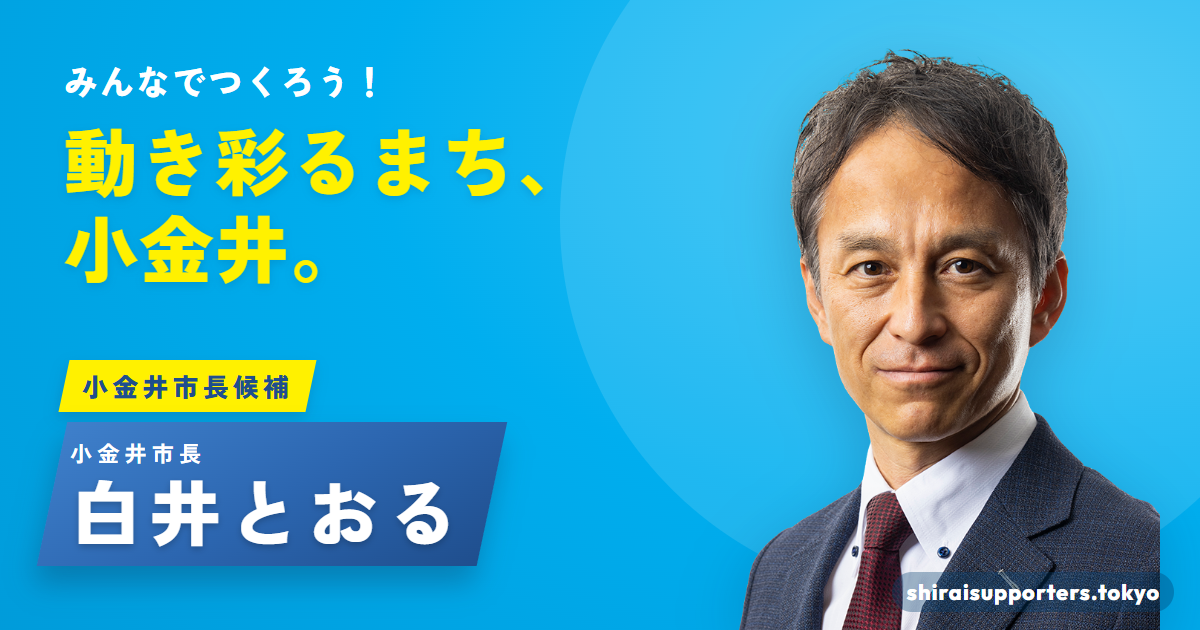
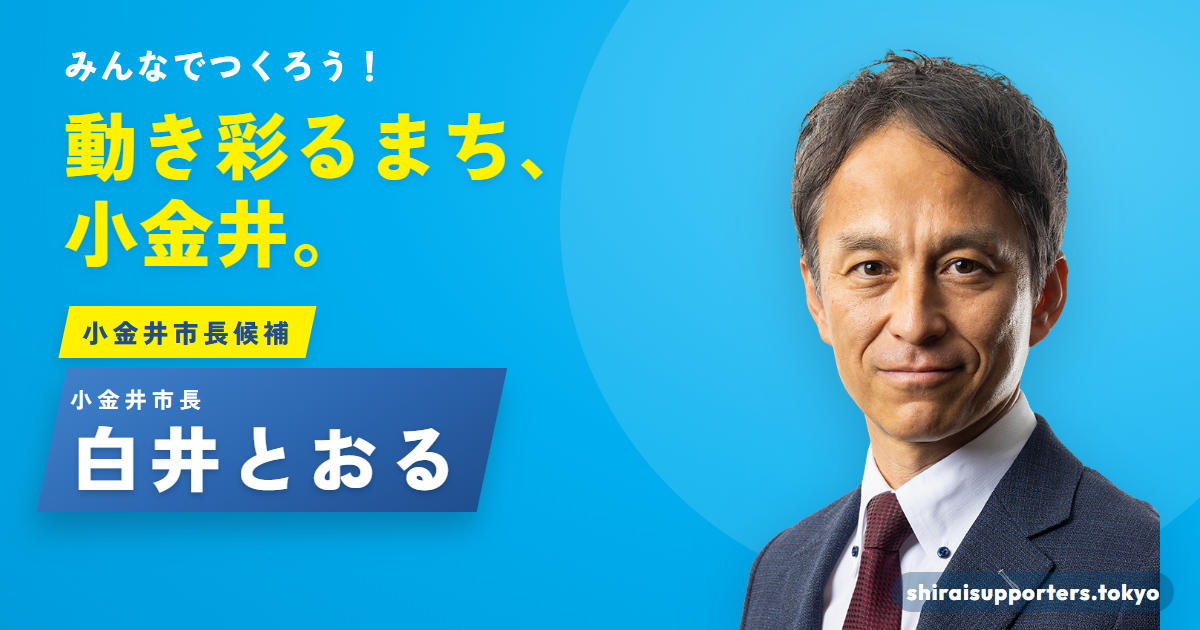
OGP画像を名札を上げた版に（Xが左下に題名を重ねるため）

Changed region(s): [[0.0308, 0.4825, 0.4317, 0.9349], [0.0308, 0.181, 0.4625, 0.4524], [0.0308, 0.0603, 0.3083, 0.1508]]

diff --git a/chosha/index.html b/chosha/index.html
@@ -55,7 +55,7 @@ details.more summary::-webkit-details-marker{display:none}details.more summary:a
 <meta property="og:title" content="決断。新庁舎等建設の見直し｜白井とおるサポーターズ">
 <meta property="og:description" content="白井とおるサポーターズマガジン Vol.3　新庁舎等建設、建設費高騰により現設計による建設、見直しへ">
 <meta property="og:url" content="https://shiraisupporters.tokyo/chosha/">
-<meta property="og:image" content="https://koganei.heteml.net/hg7emw2ud3gkvesrzndd6a2iz1kuqwwyc75mb1g8/ogp.png">
+<meta property="og:image" content="https://koganei.heteml.net/hg7emw2ud3gkvesrzndd6a2iz1kuqwwyc75mb1g8/ogp2.png">
 <meta property="og:image:width" content="1200">
 <meta property="og:image:height" content="630">
 <meta property="og:image:alt" content="小金井市長候補 白井とおる　みんなでつくろう！動き彩るまち、小金井。">
@@ -63,6 +63,6 @@ details.more summary::-webkit-details-marker{display:none}details.more summary:a
 <meta name="twitter:card" content="summary_large_image">
 <meta name="twitter:title" content="決断。新庁舎等建設の見直し｜白井とおるサポーターズ">
 <meta name="twitter:description" content="白井とおるサポーターズマガジン Vol.3　新庁舎等建設、建設費高騰により現設計による建設、見直しへ">
-<meta name="twitter:image" content="https://koganei.heteml.net/hg7emw2ud3gkvesrzndd6a2iz1kuqwwyc75mb1g8/ogp.png">
+<meta name="twitter:image" content="https://koganei.heteml.net/hg7emw2ud3gkvesrzndd6a2iz1kuqwwyc75mb1g8/ogp2.png">
 <!-- OGP-END -->
 </head><body><header class="site-head"><div class="wrap"><a class="brand" href="https://shiraisupporters.tokyo/">白井とおる <span>2026</span></a><a class="back" href="https://shiraisupporters.tokyo/">← トップへ戻る</a></div></header><div class="masthead"><div class="wrap"><b>白井とおるサポーターズマガジン</b><span class="vol">Vol.3</span><span>2026年10月12日発行　発行：白井とおるサポーターズ</span></div></div><header class="hero"><div class="wrap"><div class="hero-copy"><h1 class="head"><span>決断。新庁舎等建設、</span><br><span>建設費高騰により</span><br><span>現設計による建設、見直しへ</span><br></h1><p class="lead">中東情勢含め建設費の高騰を受け、小中学校建替え等も進めねばならず今後の財政運営が非常に厳しくなると判断、悩んだ末、見直しを決断しました</p></div></div></header><nav class="sec soft" style="padding:26px 0" aria-label="この見直しのポイント"><div class="narrow"><div class="qnav" style="margin:0"><a href="#q1"><span class="n">1</span>何が起きた？</a><a href="#q2"><span class="n">2</span>なぜ見直す？</a><a href="#q3"><span class="n">3</span>これからどうする？</a></div></div></nav><main><section class="sec alt" id="q1"><div class="narrow"><div class="q-head"><span class="n">1</span><h2>何が起きた？</h2></div><div class="block"><h3 class="sub">現設計で進めてきたこれまでの経過と見直しの判断について</h3><p>前市長時代からストップしていた事業を2023年に再開。法令に基づく設計の修正に着手</p><figure class="figure bare"><img src="assets/fig-flow.webp" width="1565" height="460" alt="2024.12 念願の工事予算を議会で可決（約130億円）→ 2025 入札かけるも応札者なく2度入札中止 → 2026 174億円と想定し2027 or 2028年度に3度目の入札に向け調整 → 事業者ヒアリングから240億円相当の想定が必要と判断" loading="lazy"><a class="zoom" href="assets/fig-flow.webp" target="_blank" rel="noopener">図を大きく見る</a></figure><p class="judge"><span class="em">建設工事費の大幅な上昇</span>により、小中学校建替え等を始めとした施設の老朽化対策と合わせて<span class="em">非常に大きな財政負担となる見通し</span>となったことから<span class="em">現設計により進めることは断念、方針を見直す</span>こととしました。</p></div><div class="block"><h3 class="sub">建設費の大幅な高騰、今後の財政運営に危機感</h3><p>長年の課題であった新庁舎建設は、本庁舎の老朽化と第二庁舎の賃借解消のため統合的な庁舎にし、防災および市民サービスの拠点と位置付けていました。また、約10年前に閉館した福祉会館機能の回復と保健センター等を合わせた福祉の総合拠点と併設する、複合施設として整備を計画。</p><p>2019年から設計に入ったものの、財政的な課題や市議会からの指摘等もあり、2022年に実施設計最終盤で立ち止まることに。白井市長就任（2022年11月下旬）後、公約「財政的課題をクリアのうえ、早期建設をめざす」の通り事業再開を決め、市議会にて工事予算を可決するなどして事業を前に進めてきました。しかし、建設物価高騰に加えて中東情勢の影響もあり、建設費がさらに高騰してきました。</p><figure class="figure"><img src="assets/fig-cost.webp" width="1195" height="850" alt="2020年度からの建設費試算の推移（単位：億円）。基本設計時84.4（2020.6）、実施設計時90.7（2021.11）、中断、事業再開方針発表時115（2023.5）、建設工事予算可決時130（2024.12）、2度の入札中止、施政方針で3回目の入札を目指して調整することを表明174（2026.2）、5-6月の施工者へのサウンディング調査を踏まえて試算240（2026.8）。2022.11.27 白井市長就任、事業再開を指示" loading="lazy"><a class="zoom" href="assets/fig-cost.webp" target="_blank" rel="noopener">図を大きく見る</a></figure></div></div></section><section class="sec " id="q2"><div class="narrow"><div class="q-head"><span class="n">2</span><h2>なぜ見直す？</h2></div><div class="block"><h3 class="sub">現状のまま進めると、将来的に財政が行き詰まる危険性</h3><figure class="figure"><img src="assets/fig-sim.webp" width="1410" height="730" alt="新庁舎等建設費240億円で進めた場合の財政シミュレーション（イメージ）。公債費（返済支出）は2028年から増え続け、現在の約2倍となる40億円程度の公債費が続く見込み。財政調整基金残高（いわゆる普通預金）は減り続け、財政規律ガイドラインの指標「財政調整基金残高」40億円ラインを下回る。上記は小中学校建替えの計画に沿った事業費も含めた財政シミュレーションです" loading="lazy"><a class="zoom" href="assets/fig-sim.webp" target="_blank" rel="noopener">図を大きく見る</a></figure></div><div class="block"><h3 class="sub">市債（借入）増+金利上昇もあり将来の負担が増大</h3><p>工事費の大部分を市債発行（借入）で調達することになり、工事費の増額に伴い借入額も増。後20年以上にわたっての返済（償還額）は、金利を含め想定以上に膨らむことになります。</p><div class="tbl-wrap"><table class="cmp"><caption>◯ 建設費ごとの借入れ額と返済額の比較</caption><thead><tr><th scope="col">建設費想定</th><th scope="col">借入額</th><th scope="col">金利</th><th scope="col">償還額合計</th></tr></thead><tbody><tr><th scope="row" style="font-weight:500">130億円の場合</th><td>約99億円</td><td>約15億円</td><td>約114億円</td></tr><tr><th scope="row" style="font-weight:500">174億円の場合</th><td>132億円</td><td>約33億円</td><td>約165億円</td></tr><tr><th scope="row" style="font-weight:500">240億円の場合</th><td>187億円</td><td>約68億円</td><td>約255億円</td></tr></tbody></table></div><p class="note">※240億円の場合は2026年8月段階での金利上昇を含めて試算</p></div><div class="block"><h3 class="sub">小中学校の建替え等も同時に進めなければなりません</h3><p>現状のままでは、着工から7−8年後から毎年の借入額の返還（公債費）が財政を圧迫し、財政調整基金で補うも基金が枯渇する危険性も想定されます。庁舎等建設や他の市民福祉の向上とともに、今後の小中学校建替え等の公共施設の更新も深刻な課題であり、両立して取り組まねばなりません。</p><figure class="figure"><img src="assets/fig-plan.webp" width="1072" height="651" alt="小中学校改築等の今後10年間の実施計画（小金井市学校施設長寿命化計画改訂版より）。2026〜2036年の小中学校14校の建替え・構想設計・先行修繕の予定表。第一小学校は2026〜2029年に建替え（一部改修）、第三小学校は2027〜2029年に構想・設計、2030〜2033年に建替え（一部改修）、第一中学校は2027〜2031年に構想・設計、2032〜2035年に建替え（一部改修）、第二小学校と第二中学校は2031〜2035年に構想・設計、2036年に建替え。建替えや改修が10年以上先になる学校は、先行して屋上や外壁等必要な修繕を行う予定" loading="lazy"><a class="zoom" href="assets/fig-plan.webp" target="_blank" rel="noopener">図を大きく見る</a></figure><p class="note">※グラフや表は市議会への提出資料や議会答弁等から白井とおるサポーターズが独自に作成、金額は概算</p></div></div></section><section class="sec soft" id="q3"><div class="narrow"><div class="q-head"><span class="n">3</span><h2>これからどうする？</h2></div><div style="margin-bottom:28px"><p class="concl">新庁舎等整備は課題解消とまちづくりの観点から重要であり、事業規模等を整理の上、再設計に向け新たな方針策定の検討を始めています。</p></div><div class="report"><div class="report-head"><span class="report-badge">市長<br>報告</span><div><p class="report-date">9月1日</p><h3 class="report-title">新庁舎・（仮称）新福祉会館の今後の対応について<small>（要約）</small></h3></div></div><div class="report-body"><div><p>従来の方針では、2028年度、可能であれば2027年度の入札（及び着工）を目指していました。しかし、2回の入札中止を受け、改めて5月から6月にかけて、施工会社を対象に事前調査を実施したところ、一定の入札参加は見込まれるものの、工事費が240億円相当まで上昇することも想定される結果になりました。新庁舎・（仮称）新福祉会館の建設だけでなく、小中学校施設の建替え等老朽化対策も待ったなしであり、将来の財政負担を見通すと、このままの計画で進めることは困難であると判断。市民参加のもと議会の承認を得てここまで進めてきたなかで、苦渋の決断ではありますが、現設計での建設は断念し、事業規模等を整理し設計をやり直します。9月1日の議会で、その方針を報告しました。</p><p style="margin-top:14px"><a class="btn" href="https://www.city.koganei.lg.jp/shisei/seisakukeikaku/sintyosyakanren/genzai.html" target="_blank" rel="noopener">詳しくは市HPで<span aria-hidden="true"> ↗</span></a></p></div><img src="assets/fig-building.webp" width="430" height="575" alt="新庁舎・（仮称）新福祉会館の完成予想図" loading="lazy"></div></div></div></section></main><footer class="foot"><div class="wrap"><p>白井とおるサポーターズマガジン Vol.3（2026年10月12日発行）をウェブ用に組み直したものです。</p><p>白井とおるサポーターズ（政治団体）</p></div></footer></body></html>

diff --git a/jckokaitoronkai/index.html b/jckokaitoronkai/index.html
@@ -80,7 +80,7 @@ h2.topic .no{font-size:30px}
 <meta property="og:title" content="小金井市長選挙 公開討論会 文字起こし(小金井青年会議所 2026-11-03)">
 <meta property="og:description" content="小金井市長 白井とおる 公式サイト。4年間の確かな成果とともに、市民に近い、あたたかい市政を。子育て・教育・福祉・防災・環境の取り組みをご紹介します。">
 <meta property="og:url" content="https://shiraisupporters.tokyo/jckokaitoronkai/">
-<meta property="og:image" content="https://koganei.heteml.net/hg7emw2ud3gkvesrzndd6a2iz1kuqwwyc75mb1g8/ogp.png">
+<meta property="og:image" content="https://koganei.heteml.net/hg7emw2ud3gkvesrzndd6a2iz1kuqwwyc75mb1g8/ogp2.png">
 <meta property="og:image:width" content="1200">
 <meta property="og:image:height" content="630">
 <meta property="og:image:alt" content="小金井市長候補 白井とおる　みんなでつくろう！動き彩るまち、小金井。">
@@ -88,7 +88,7 @@ h2.topic .no{font-size:30px}
 <meta name="twitter:card" content="summary_large_image">
 <meta name="twitter:title" content="小金井市長選挙 公開討論会 文字起こし(小金井青年会議所 2026-11-03)">
 <meta name="twitter:description" content="小金井市長 白井とおる 公式サイト。4年間の確かな成果とともに、市民に近い、あたたかい市政を。子育て・教育・福祉・防災・環境の取り組みをご紹介します。">
-<meta name="twitter:image" content="https://koganei.heteml.net/hg7emw2ud3gkvesrzndd6a2iz1kuqwwyc75mb1g8/ogp.png">
+<meta name="twitter:image" content="https://koganei.heteml.net/hg7emw2ud3gkvesrzndd6a2iz1kuqwwyc75mb1g8/ogp2.png">
 <!-- OGP-END -->
 </head>
 <body>

diff --git a/kodomo/chugaku.html b/kodomo/chugaku.html
@@ -79,7 +79,7 @@ footer a{color:var(--accent)}
 <meta property="og:title" content="中学生のための 白井とおる 政策ガイド">
 <meta property="og:description" content="小金井市長 白井とおる 公式サイト。4年間の確かな成果とともに、市民に近い、あたたかい市政を。子育て・教育・福祉・防災・環境の取り組みをご紹介します。">
 <meta property="og:url" content="https://shiraisupporters.tokyo/kodomo/chugaku.html">
-<meta property="og:image" content="https://koganei.heteml.net/hg7emw2ud3gkvesrzndd6a2iz1kuqwwyc75mb1g8/ogp.png">
+<meta property="og:image" content="https://koganei.heteml.net/hg7emw2ud3gkvesrzndd6a2iz1kuqwwyc75mb1g8/ogp2.png">
 <meta property="og:image:width" content="1200">
 <meta property="og:image:height" content="630">
 <meta property="og:image:alt" content="小金井市長候補 白井とおる　みんなでつくろう！動き彩るまち、小金井。">
@@ -87,7 +87,7 @@ footer a{color:var(--accent)}
 <meta name="twitter:card" content="summary_large_image">
 <meta name="twitter:title" content="中学生のための 白井とおる 政策ガイド">
 <meta name="twitter:description" content="小金井市長 白井とおる 公式サイト。4年間の確かな成果とともに、市民に近い、あたたかい市政を。子育て・教育・福祉・防災・環境の取り組みをご紹介します。">
-<meta name="twitter:image" content="https://koganei.heteml.net/hg7emw2ud3gkvesrzndd6a2iz1kuqwwyc75mb1g8/ogp.png">
+<meta name="twitter:image" content="https://koganei.heteml.net/hg7emw2ud3gkvesrzndd6a2iz1kuqwwyc75mb1g8/ogp2.png">
 <!-- OGP-END -->
 </head>
 <body class="hide-src no-ruby">

diff --git a/kodomo/iriguchi.html b/kodomo/iriguchi.html
@@ -42,7 +42,7 @@ footer a{color:var(--blue)}
 <meta property="og:title" content="白井とおる ― 小学生・中学生のみなさんへ">
 <meta property="og:description" content="小金井市長 白井とおる 公式サイト。4年間の確かな成果とともに、市民に近い、あたたかい市政を。子育て・教育・福祉・防災・環境の取り組みをご紹介します。">
 <meta property="og:url" content="https://shiraisupporters.tokyo/kodomo/iriguchi.html">
-<meta property="og:image" content="https://koganei.heteml.net/hg7emw2ud3gkvesrzndd6a2iz1kuqwwyc75mb1g8/ogp.png">
+<meta property="og:image" content="https://koganei.heteml.net/hg7emw2ud3gkvesrzndd6a2iz1kuqwwyc75mb1g8/ogp2.png">
 <meta property="og:image:width" content="1200">
 <meta property="og:image:height" content="630">
 <meta property="og:image:alt" content="小金井市長候補 白井とおる　みんなでつくろう！動き彩るまち、小金井。">
@@ -50,7 +50,7 @@ footer a{color:var(--blue)}
 <meta name="twitter:card" content="summary_large_image">
 <meta name="twitter:title" content="白井とおる ― 小学生・中学生のみなさんへ">
 <meta name="twitter:description" content="小金井市長 白井とおる 公式サイト。4年間の確かな成果とともに、市民に近い、あたたかい市政を。子育て・教育・福祉・防災・環境の取り組みをご紹介します。">
-<meta name="twitter:image" content="https://koganei.heteml.net/hg7emw2ud3gkvesrzndd6a2iz1kuqwwyc75mb1g8/ogp.png">
+<meta name="twitter:image" content="https://koganei.heteml.net/hg7emw2ud3gkvesrzndd6a2iz1kuqwwyc75mb1g8/ogp2.png">
 <!-- OGP-END -->
 </head>
 <body>

diff --git a/kodomo/kodomo.html b/kodomo/kodomo.html
@@ -78,7 +78,7 @@ footer a{color:var(--blue)}
 <meta property="og:title" content="小学生のための 白井とおる ページ">
 <meta property="og:description" content="小金井市長 白井とおる 公式サイト。4年間の確かな成果とともに、市民に近い、あたたかい市政を。子育て・教育・福祉・防災・環境の取り組みをご紹介します。">
 <meta property="og:url" content="https://shiraisupporters.tokyo/kodomo/kodomo.html">
-<meta property="og:image" content="https://koganei.heteml.net/hg7emw2ud3gkvesrzndd6a2iz1kuqwwyc75mb1g8/ogp.png">
+<meta property="og:image" content="https://koganei.heteml.net/hg7emw2ud3gkvesrzndd6a2iz1kuqwwyc75mb1g8/ogp2.png">
 <meta property="og:image:width" content="1200">
 <meta property="og:image:height" content="630">
 <meta property="og:image:alt" content="小金井市長候補 白井とおる　みんなでつくろう！動き彩るまち、小金井。">
@@ -86,7 +86,7 @@ footer a{color:var(--blue)}
 <meta name="twitter:card" content="summary_large_image">
 <meta name="twitter:title" content="小学生のための 白井とおる ページ">
 <meta name="twitter:description" content="小金井市長 白井とおる 公式サイト。4年間の確かな成果とともに、市民に近い、あたたかい市政を。子育て・教育・福祉・防災・環境の取り組みをご紹介します。">
-<meta name="twitter:image" content="https://koganei.heteml.net/hg7emw2ud3gkvesrzndd6a2iz1kuqwwyc75mb1g8/ogp.png">
+<meta name="twitter:image" content="https://koganei.heteml.net/hg7emw2ud3gkvesrzndd6a2iz1kuqwwyc75mb1g8/ogp2.png">
 <!-- OGP-END -->
 </head>
 <body class="hide-src">

diff --git a/kodomo/index.html b/kodomo/index.html
@@ -42,7 +42,7 @@ footer a{color:var(--blue)}
 <meta property="og:title" content="白井とおる ― 小学生・中学生のみなさんへ">
 <meta property="og:description" content="小金井市長 白井とおる 公式サイト。4年間の確かな成果とともに、市民に近い、あたたかい市政を。子育て・教育・福祉・防災・環境の取り組みをご紹介します。">
 <meta property="og:url" content="https://shiraisupporters.tokyo/kodomo/">
-<meta property="og:image" content="https://koganei.heteml.net/hg7emw2ud3gkvesrzndd6a2iz1kuqwwyc75mb1g8/ogp.png">
+<meta property="og:image" content="https://koganei.heteml.net/hg7emw2ud3gkvesrzndd6a2iz1kuqwwyc75mb1g8/ogp2.png">
 <meta property="og:image:width" content="1200">
 <meta property="og:image:height" content="630">
 <meta property="og:image:alt" content="小金井市長候補 白井とおる　みんなでつくろう！動き彩るまち、小金井。">
@@ -50,7 +50,7 @@ footer a{color:var(--blue)}
 <meta name="twitter:card" content="summary_large_image">
 <meta name="twitter:title" content="白井とおる ― 小学生・中学生のみなさんへ">
 <meta name="twitter:description" content="小金井市長 白井とおる 公式サイト。4年間の確かな成果とともに、市民に近い、あたたかい市政を。子育て・教育・福祉・防災・環境の取り組みをご紹介します。">
-<meta name="twitter:image" content="https://koganei.heteml.net/hg7emw2ud3gkvesrzndd6a2iz1kuqwwyc75mb1g8/ogp.png">
+<meta name="twitter:image" content="https://koganei.heteml.net/hg7emw2ud3gkvesrzndd6a2iz1kuqwwyc75mb1g8/ogp2.png">
 <!-- OGP-END -->
 </head>
 <body>

diff --git a/kodomo/map.html b/kodomo/map.html
@@ -79,7 +79,7 @@ footer a{color:var(--blue)}
 <meta property="og:title" content="こがハムくんと小金井さんぽ">
 <meta property="og:description" content="小金井市長 白井とおる 公式サイト。4年間の確かな成果とともに、市民に近い、あたたかい市政を。子育て・教育・福祉・防災・環境の取り組みをご紹介します。">
 <meta property="og:url" content="https://shiraisupporters.tokyo/kodomo/map.html">
-<meta property="og:image" content="https://koganei.heteml.net/hg7emw2ud3gkvesrzndd6a2iz1kuqwwyc75mb1g8/ogp.png">
+<meta property="og:image" content="https://koganei.heteml.net/hg7emw2ud3gkvesrzndd6a2iz1kuqwwyc75mb1g8/ogp2.png">
 <meta property="og:image:width" content="1200">
 <meta property="og:image:height" content="630">
 <meta property="og:image:alt" content="小金井市長候補 白井とおる　みんなでつくろう！動き彩るまち、小金井。">
@@ -87,7 +87,7 @@ footer a{color:var(--blue)}
 <meta name="twitter:card" content="summary_large_image">
 <meta name="twitter:title" content="こがハムくんと小金井さんぽ">
 <meta name="twitter:description" content="小金井市長 白井とおる 公式サイト。4年間の確かな成果とともに、市民に近い、あたたかい市政を。子育て・教育・福祉・防災・環境の取り組みをご紹介します。">
-<meta name="twitter:image" content="https://koganei.heteml.net/hg7emw2ud3gkvesrzndd6a2iz1kuqwwyc75mb1g8/ogp.png">
+<meta name="twitter:image" content="https://koganei.heteml.net/hg7emw2ud3gkvesrzndd6a2iz1kuqwwyc75mb1g8/ogp2.png">
 <!-- OGP-END -->
 </head>
 <body class="hide-src">

diff --git a/index.html b/index.html
@@ -41,7 +41,7 @@
 <meta property="og:title" content="白井とおる2026 みんなでつくろう！ 動き彩るまち、小金井。">
 <meta property="og:description" content="小金井市長 白井とおる 公式サイト。4年間の確かな成果とともに、市民に近い、あたたかい市政を。子育て・教育・福祉・防災・環境の取り組みをご紹介します。">
 <meta property="og:url" content="https://shiraisupporters.tokyo/">
-<meta property="og:image" content="https://koganei.heteml.net/hg7emw2ud3gkvesrzndd6a2iz1kuqwwyc75mb1g8/ogp.png">
+<meta property="og:image" content="https://koganei.heteml.net/hg7emw2ud3gkvesrzndd6a2iz1kuqwwyc75mb1g8/ogp2.png">
 <meta property="og:image:width" content="1200">
 <meta property="og:image:height" content="630">
 <meta property="og:image:alt" content="小金井市長候補 白井とおる　みんなでつくろう！動き彩るまち、小金井。">
@@ -49,7 +49,7 @@
 <meta name="twitter:card" content="summary_large_image">
 <meta name="twitter:title" content="白井とおる2026 みんなでつくろう！ 動き彩るまち、小金井。">
 <meta name="twitter:description" content="小金井市長 白井とおる 公式サイト。4年間の確かな成果とともに、市民に近い、あたたかい市政を。子育て・教育・福祉・防災・環境の取り組みをご紹介します。">
-<meta name="twitter:image" content="https://koganei.heteml.net/hg7emw2ud3gkvesrzndd6a2iz1kuqwwyc75mb1g8/ogp.png">
+<meta name="twitter:image" content="https://koganei.heteml.net/hg7emw2ud3gkvesrzndd6a2iz1kuqwwyc75mb1g8/ogp2.png">
 <!-- OGP-END -->
 </head>
 <body>

diff --git a/koyaku2022/index.html b/koyaku2022/index.html
@@ -263,7 +263,7 @@ h1{margin-top:0}
 <meta property="og:title" content="2022年市長選挙公約の取組み結果｜2026年10月6日時点">
 <meta property="og:description" content="2022年市長選挙公約の取組み結果（2026年10月6日時点）。着手率89.2%（65項目中58項目）・達成率64.1%（◯3点・△1点・×0点で点数化、195点満点中125点）。">
 <meta property="og:url" content="https://shiraisupporters.tokyo/koyaku2022/">
-<meta property="og:image" content="https://koganei.heteml.net/hg7emw2ud3gkvesrzndd6a2iz1kuqwwyc75mb1g8/ogp.png">
+<meta property="og:image" content="https://koganei.heteml.net/hg7emw2ud3gkvesrzndd6a2iz1kuqwwyc75mb1g8/ogp2.png">
 <meta property="og:image:width" content="1200">
 <meta property="og:image:height" content="630">
 <meta property="og:image:alt" content="小金井市長候補 白井とおる　みんなでつくろう！動き彩るまち、小金井。">
@@ -271,7 +271,7 @@ h1{margin-top:0}
 <meta name="twitter:card" content="summary_large_image">
 <meta name="twitter:title" content="2022年市長選挙公約の取組み結果｜2026年10月6日時点">
 <meta name="twitter:description" content="2022年市長選挙公約の取組み結果（2026年10月6日時点）。着手率89.2%（65項目中58項目）・達成率64.1%（◯3点・△1点・×0点で点数化、195点満点中125点）。">
-<meta name="twitter:image" content="https://koganei.heteml.net/hg7emw2ud3gkvesrzndd6a2iz1kuqwwyc75mb1g8/ogp.png">
+<meta name="twitter:image" content="https://koganei.heteml.net/hg7emw2ud3gkvesrzndd6a2iz1kuqwwyc75mb1g8/ogp2.png">
 <!-- OGP-END -->
 </head>
 <body>

diff --git a/kodomo/quiz.html b/kodomo/quiz.html
@@ -46,7 +46,7 @@ footer a{color:var(--blue)}
 <meta property="og:title" content="こがハムくんのクイズ">
 <meta property="og:description" content="小金井市長 白井とおる 公式サイト。4年間の確かな成果とともに、市民に近い、あたたかい市政を。子育て・教育・福祉・防災・環境の取り組みをご紹介します。">
 <meta property="og:url" content="https://shiraisupporters.tokyo/kodomo/quiz.html">
-<meta property="og:image" content="https://koganei.heteml.net/hg7emw2ud3gkvesrzndd6a2iz1kuqwwyc75mb1g8/ogp.png">
+<meta property="og:image" content="https://koganei.heteml.net/hg7emw2ud3gkvesrzndd6a2iz1kuqwwyc75mb1g8/ogp2.png">
 <meta property="og:image:width" content="1200">
 <meta property="og:image:height" content="630">
 <meta property="og:image:alt" content="小金井市長候補 白井とおる　みんなでつくろう！動き彩るまち、小金井。">
@@ -54,7 +54,7 @@ footer a{color:var(--blue)}
 <meta name="twitter:card" content="summary_large_image">
 <meta name="twitter:title" content="こがハムくんのクイズ">
 <meta name="twitter:description" content="小金井市長 白井とおる 公式サイト。4年間の確かな成果とともに、市民に近い、あたたかい市政を。子育て・教育・福祉・防災・環境の取り組みをご紹介します。">
-<meta name="twitter:image" content="https://koganei.heteml.net/hg7emw2ud3gkvesrzndd6a2iz1kuqwwyc75mb1g8/ogp.png">
+<meta name="twitter:image" content="https://koganei.heteml.net/hg7emw2ud3gkvesrzndd6a2iz1kuqwwyc75mb1g8/ogp2.png">
 <!-- OGP-END -->
 </head>
 <body>

diff --git a/kodomo/puzzle.html b/kodomo/puzzle.html
@@ -65,7 +65,7 @@ footer a{color:var(--blue)}
 <meta property="og:title" content="バスのパズル">
 <meta property="og:description" content="小金井市長 白井とおる 公式サイト。4年間の確かな成果とともに、市民に近い、あたたかい市政を。子育て・教育・福祉・防災・環境の取り組みをご紹介します。">
 <meta property="og:url" content="https://shiraisupporters.tokyo/kodomo/puzzle.html">
-<meta property="og:image" content="https://koganei.heteml.net/hg7emw2ud3gkvesrzndd6a2iz1kuqwwyc75mb1g8/ogp.png">
+<meta property="og:image" content="https://koganei.heteml.net/hg7emw2ud3gkvesrzndd6a2iz1kuqwwyc75mb1g8/ogp2.png">
 <meta property="og:image:width" content="1200">
 <meta property="og:image:height" content="630">
 <meta property="og:image:alt" content="小金井市長候補 白井とおる　みんなでつくろう！動き彩るまち、小金井。">
@@ -73,7 +73,7 @@ footer a{color:var(--blue)}
 <meta name="twitter:card" content="summary_large_image">
 <meta name="twitter:title" content="バスのパズル">
 <meta name="twitter:description" content="小金井市長 白井とおる 公式サイト。4年間の確かな成果とともに、市民に近い、あたたかい市政を。子育て・教育・福祉・防災・環境の取り組みをご紹介します。">
-<meta name="twitter:image" content="https://koganei.heteml.net/hg7emw2ud3gkvesrzndd6a2iz1kuqwwyc75mb1g8/ogp.png">
+<meta name="twitter:image" content="https://koganei.heteml.net/hg7emw2ud3gkvesrzndd6a2iz1kuqwwyc75mb1g8/ogp2.png">
 <!-- OGP-END -->
 </head>
 <body>

diff --git a/kifu/index.html b/kifu/index.html
@@ -70,7 +70,7 @@ footer p+p{margin-top:4px}
 <meta property="og:title" content="寄付のお願い｜白井とおるサポーターズ">
 <meta property="og:description" content="白井とおるサポーターズへのご寄付のお願いと、法律で定められた寄付の制限について。">
 <meta property="og:url" content="https://shiraisupporters.tokyo/kifu/">
-<meta property="og:image" content="https://koganei.heteml.net/hg7emw2ud3gkvesrzndd6a2iz1kuqwwyc75mb1g8/ogp.png">
+<meta property="og:image" content="https://koganei.heteml.net/hg7emw2ud3gkvesrzndd6a2iz1kuqwwyc75mb1g8/ogp2.png">
 <meta property="og:image:width" content="1200">
 <meta property="og:image:height" content="630">
 <meta property="og:image:alt" content="小金井市長候補 白井とおる　みんなでつくろう！動き彩るまち、小金井。">
@@ -78,7 +78,7 @@ footer p+p{margin-top:4px}
 <meta name="twitter:card" content="summary_large_image">
 <meta name="twitter:title" content="寄付のお願い｜白井とおるサポーターズ">
 <meta name="twitter:description" content="白井とおるサポーターズへのご寄付のお願いと、法律で定められた寄付の制限について。">
-<meta name="twitter:image" content="https://koganei.heteml.net/hg7emw2ud3gkvesrzndd6a2iz1kuqwwyc75mb1g8/ogp.png">
+<meta name="twitter:image" content="https://koganei.heteml.net/hg7emw2ud3gkvesrzndd6a2iz1kuqwwyc75mb1g8/ogp2.png">
 <!-- OGP-END -->
 </head>
 <body>
